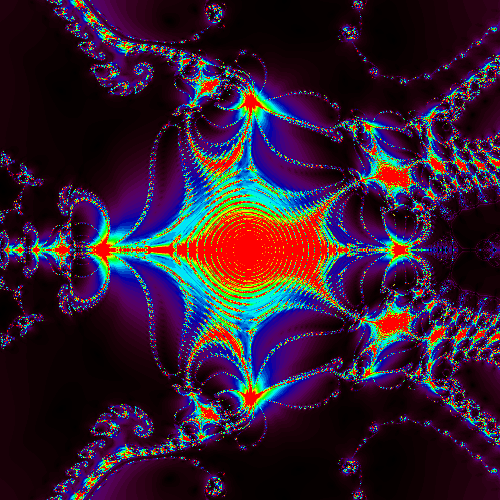
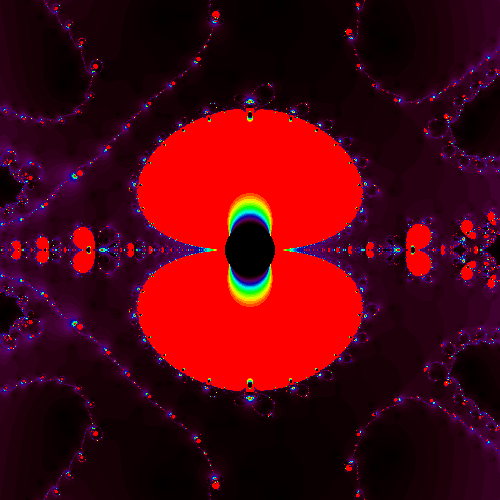
Now we're cooking

diff --git a/Newton Very Fast.py b/Newton Very Fast.py
@@ -9,8 +9,8 @@ from scipy.misc import derivative
 def truncate(number, digits) -> float:
     stepper = pow(10.0, digits)
     return math.trunc(stepper * number) / stepper
-imgx = 1000
-imgy = 1000
+imgx = 500
+imgy = 500
 image = Image.new("HSV", (imgx, imgy))
 # drawing area
 xa = -1.0
@@ -24,10 +24,8 @@ eps = 1e-3 # max error allowed
 a = -0.5
 
 def f(z):
-    return z**3-z**16-1+cmath.log(abs(2*z**2))
+    return z**3-z**16
 
-
-#Find all the roots displayed in the image, essentially a pre-pass to expedite image creation
 for y in range(imgy):
     zy = y * (yb - ya) / (imgy - 1) + ya
     for x in range(imgx):
@@ -36,14 +34,14 @@ for y in range(imgy):
         i=0
         while i < maxIt:
             # dz = (f(z + complex(h, h)) - f(z)) / complex(h, h)
-            # dz = cmath.log(z)
-            dz = 8*z**4-16*z**15-1
-            # dz = derivative(f, z)
+            try:
+                dz = 8*z**4-16*z**15-1
+            except OverflowError:
+                pass
             try:
                 z0 = z - (f(z) / dz) # Newton iteration
             except OverflowError:
-                z0 = (z+z0)/2
-            # z0 = z - (f(z) / dz) # Newton iteration
+                pass
             if abs(z0 - z) < eps: # stop when close enough to any root
                 break
             z = z0
